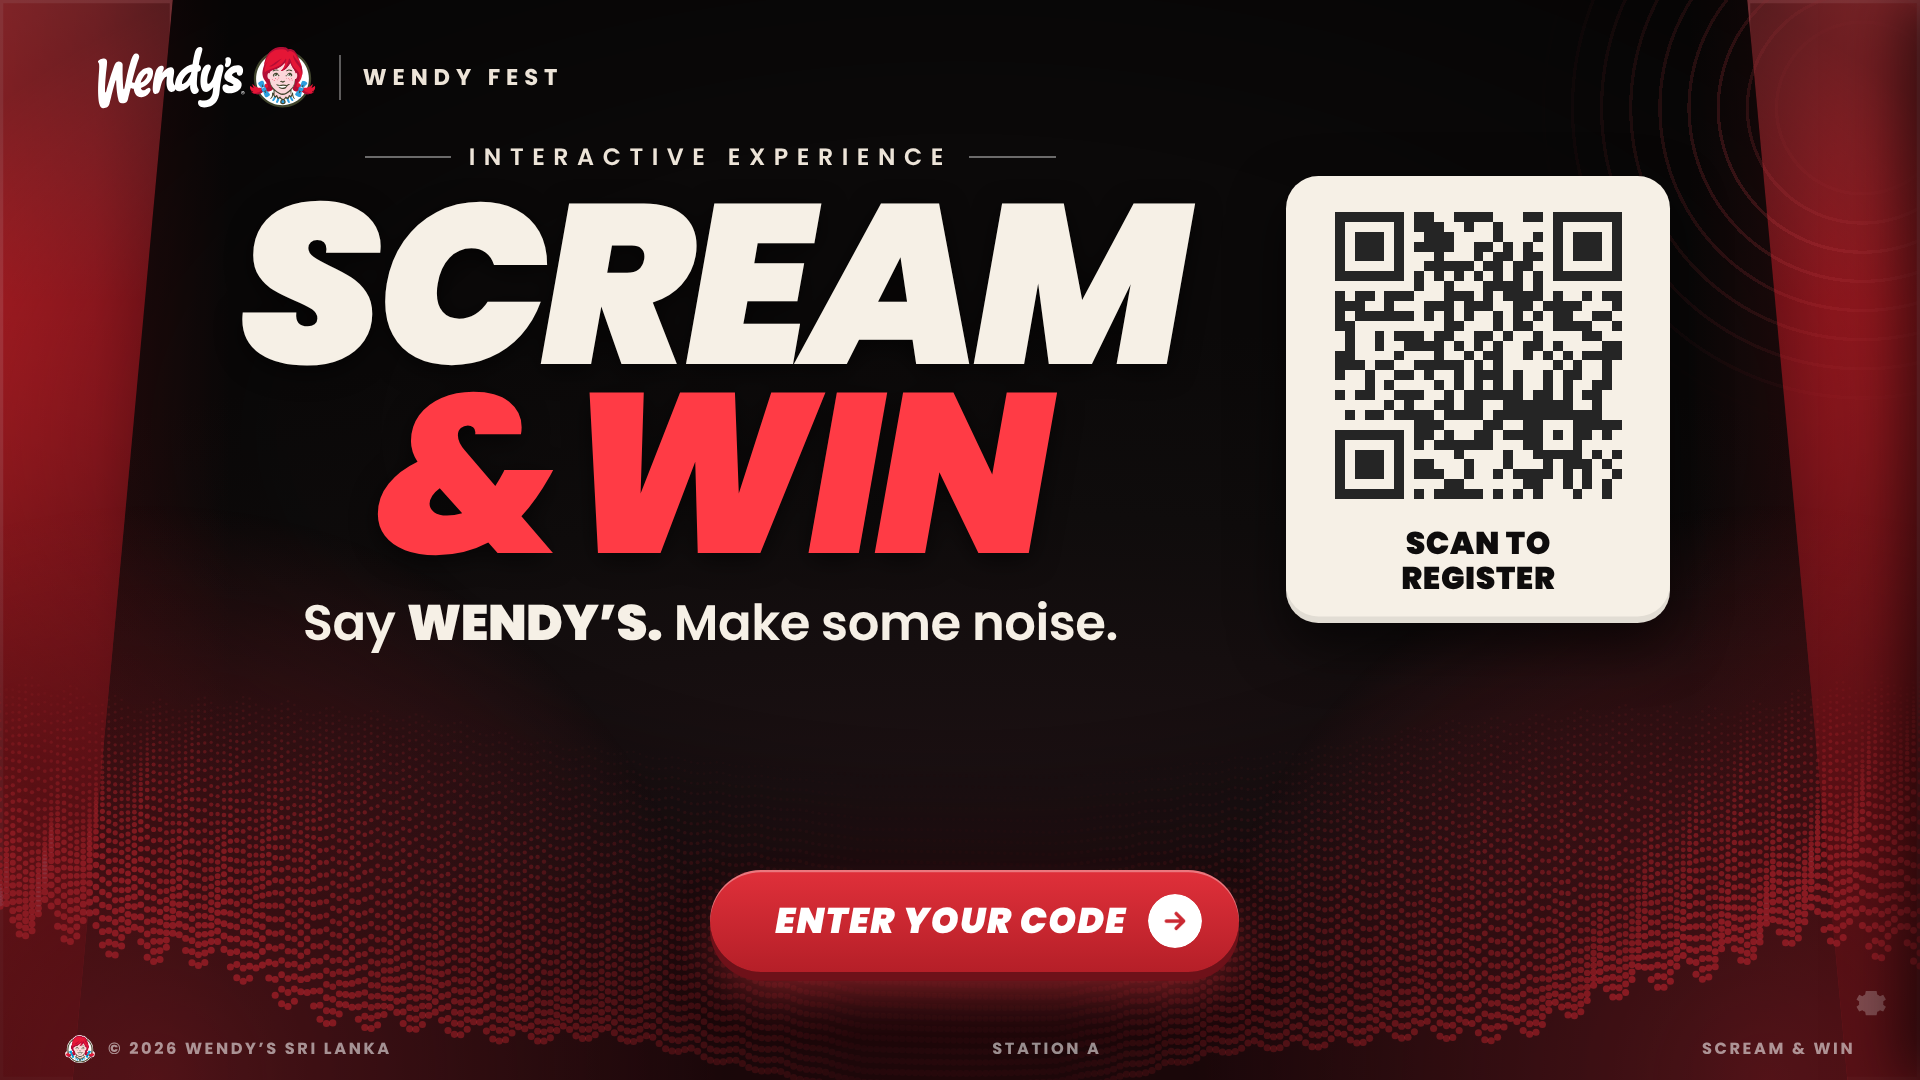
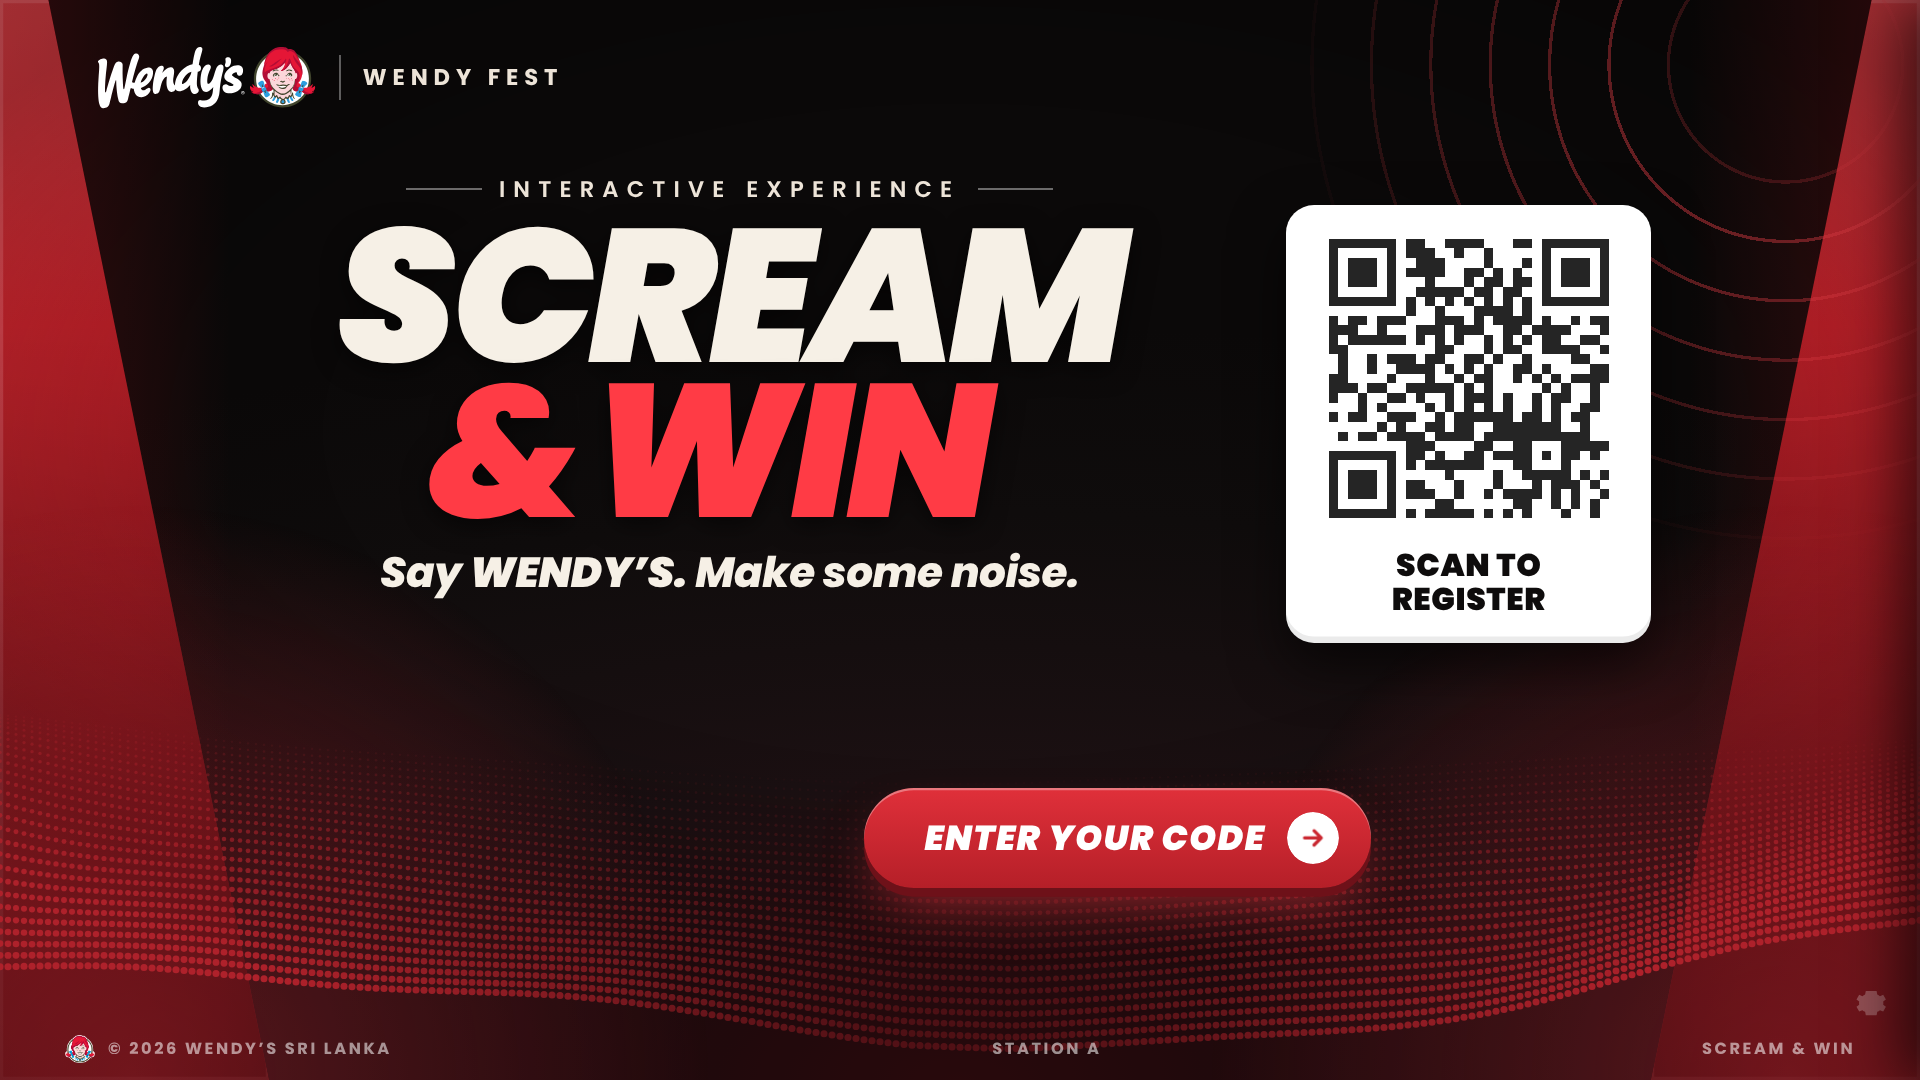
Scream & Win idle: positions matched to reference, wave terrain restored, ring arcs behind QR
Claude-Session: https://claude.ai/code/session_015MHPvZ3kkn8jw5YatKY7r4

diff --git a/public/kiosk/scream.html b/public/kiosk/scream.html
@@ -12,20 +12,20 @@ body { margin:0; background:var(--ink); color:#fff; font-family:Poppins,'Noto Sa
 .stage { position:relative; width:100vw; height:100vh; overflow:hidden;
   background: radial-gradient(90% 70% at 50% 100%, #3A0D12 0%, #1B1012 40%, #0F0C0C 75%, #0B0909 100%); }
 /* angled red side panels (3D) */
-.panel { position:absolute; top:0; bottom:0; width:9vw; pointer-events:none; z-index:1; }
-.panel.l { left:0; background:linear-gradient(90deg, #E2262F 0%, #B71E27 55%, #7A1219 100%); clip-path:polygon(0 0, 100% 0, 42% 100%, 0 100%); }
-.panel.l::after { content:""; position:absolute; inset:0; background:linear-gradient(180deg, rgba(255,150,150,.25), transparent 28%, rgba(0,0,0,.55)); clip-path:inherit; }
-.panel.r { right:0; background:linear-gradient(270deg, #E2262F 0%, #B71E27 55%, #7A1219 100%); clip-path:polygon(0 0, 100% 0, 100% 100%, 58% 100%); }
-.panel.r::after { content:""; position:absolute; inset:0; background:linear-gradient(180deg, rgba(255,150,150,.25), transparent 28%, rgba(0,0,0,.55)); clip-path:inherit; }
+.panel { position:absolute; top:0; bottom:0; width:14vw; pointer-events:none; z-index:1; }
+.panel.l { left:0; background:linear-gradient(100deg, #E22A33 0%, #BD1F28 50%, #8A151C 100%); clip-path:polygon(0 0, 18% 0, 100% 100%, 0 100%); }
+.panel.l::after { content:""; position:absolute; inset:0; background:linear-gradient(180deg, rgba(255,150,150,.22), transparent 30%, rgba(0,0,0,.5)); clip-path:inherit; }
+.panel.r { right:0; background:linear-gradient(260deg, #E22A33 0%, #BD1F28 50%, #8A151C 100%); clip-path:polygon(82% 0, 100% 0, 100% 100%, 0 100%); }
+.panel.r::after { content:""; position:absolute; inset:0; background:linear-gradient(180deg, rgba(255,150,150,.22), transparent 30%, rgba(0,0,0,.5)); clip-path:inherit; }
 .panel-glow { position:absolute; top:0; bottom:0; width:16vw; pointer-events:none; z-index:1; }
 .panel-glow.l { left:0; background:linear-gradient(90deg, rgba(205,32,40,.28), transparent 75%); }
 .panel-glow.r { right:0; background:linear-gradient(270deg, rgba(205,32,40,.28), transparent 75%); }
 .panel::before { content:""; position:absolute; inset:0; clip-path:inherit; box-shadow:inset 0 0 0 .3vmin rgba(255,120,130,.45); }
-.rings { position:absolute; inset:0; pointer-events:none; z-index:1; opacity:.55;
-  background:repeating-radial-gradient(circle at 97% 10%, transparent 0 2.4vmin, rgba(255,80,90,.45) 2.4vmin 2.7vmin);
-  mask:radial-gradient(circle at 97% 10%, transparent 0 6vmin, #000 12vmin, transparent 30vmin); -webkit-mask:radial-gradient(circle at 97% 10%, transparent 0 6vmin, #000 12vmin, transparent 30vmin); }
+.rings { position:absolute; inset:0; pointer-events:none; z-index:1; opacity:.85;
+  background:repeating-radial-gradient(circle at 93% 6%, transparent 0 5.2vmin, rgba(255,70,80,.55) 5.2vmin 5.5vmin);
+  mask:radial-gradient(circle at 93% 6%, transparent 0 8vmin, #000 14vmin, rgba(0,0,0,.6) 30vmin, transparent 46vmin); -webkit-mask:radial-gradient(circle at 93% 6%, transparent 0 8vmin, #000 14vmin, rgba(0,0,0,.6) 30vmin, transparent 46vmin); }
 #field { position:absolute; left:0; top:0; width:100vw; height:100vh; z-index:1; pointer-events:none; }
-.vignette { position:absolute; inset:0; z-index:2; pointer-events:none; background:radial-gradient(60% 55% at 50% 40%, transparent 50%, rgba(0,0,0,.45) 100%); }
+.vignette { position:absolute; inset:0; z-index:2; pointer-events:none; background:radial-gradient(60% 55% at 50% 40%, transparent 55%, rgba(0,0,0,.3) 100%); }
 
 /* chrome */
 .brand { position:absolute; top:4.2vmin; left:5vw; z-index:5; display:flex; align-items:center; gap:2vmin; }
@@ -67,21 +67,21 @@ body { margin:0; background:var(--ink); color:#fff; font-family:Poppins,'Noto Sa
 .vr { width:.2vmin; height:5vmin; background:rgba(255,255,255,.3); }
 
 /* idle */
-.idle.on { display:grid; grid-template-columns:52vw 20vw; column-gap:4vw; align-items:center; justify-content:start; text-align:left; justify-items:start; padding:0 0 26vh 11vw; }
-.idle .left { display:grid; gap:1.6vmin; justify-items:start; width:100%; }
-.idle .eyebrow { justify-content:center; width:100%; font-size:2.2vmin; letter-spacing:.36em; }
-.idle .eyebrow::before, .idle .eyebrow::after { width:8vmin; }
-.idle .h1 { font-size:21vmin; line-height:.83; letter-spacing:-.03em; width:100%; text-align:center; }
+.idle.on { display:block; padding:0; }
+.idle .left { position:absolute; left:13vw; width:50vw; top:16vh; display:grid; gap:0; justify-items:center; text-align:center; }
+.idle .eyebrow { font-size:2.1vmin; letter-spacing:.36em; margin-bottom:1.2vh; }
+.idle .eyebrow::before, .idle .eyebrow::after { width:7vmin; }
+.idle .h1 { font-size:17.5vmin; line-height:.82; letter-spacing:-.03em; }
 .idle .h1 .l1 { display:block; }
-.idle .h1 .l2 { display:block; }
-.idle .h1 .amp { color:var(--red-hi); margin-right:.6vmin; }
-.idle .sub { font-size:4.6vmin; letter-spacing:-.01em; width:100%; text-align:center; margin-top:.2vmin; }
-.idle .cta-wrap { position:absolute; left:37vw; bottom:10vh; transform:translateX(-50%); z-index:6; }
-.idle .btn { height:9.4vmin; font-size:3.3vmin; padding:0 3.4vmin 0 6vmin; }
-.idle .btn::after { width:5vmin; height:5vmin; }
-.idle .qrcard { width:20vw; padding:2.4vmin 2vmin 2.6vmin; border-radius:3vmin; justify-self:start; }
-.idle .qrcard img { width:16vw; height:16vw; }
-.idle .qrcard b { font-size:2.9vmin; letter-spacing:.02em; line-height:1.1; margin-top:.4vmin; }
+.idle .h1 .l2 { display:block; margin-left:-4vmin; }
+.idle .h1 .amp { color:var(--red-hi); margin-right:.8vmin; }
+.idle .sub { font-size:3.9vmin; letter-spacing:-.01em; margin-top:1.2vh; font-style:italic; }
+.idle .cta-wrap { position:absolute; left:45vw; top:73vh; transform:translateX(-50%); z-index:6; }
+.idle .btn { height:9.2vmin; font-size:3.2vmin; padding:0 3vmin 0 5.6vmin; }
+.idle .btn::after { width:4.8vmin; height:4.8vmin; }
+.idle .qrcard { position:absolute; left:67vw; top:19vh; width:19vw; padding:2.2vmin 1.8vmin 2.4vmin; border-radius:2.6vmin; background:#fff; }
+.idle .qrcard img { width:15.6vw; height:15.6vw; }
+.idle .qrcard b { font-size:2.9vmin; letter-spacing:.02em; line-height:1.1; margin-top:.6vmin; }
 
 /* code */
 .boxes { display:flex; gap:1.6vmin; justify-content:center; }
@@ -273,8 +273,8 @@ canvas.wave { width:70vw; height:12vmin; display:block; }
   function drawField(t) {
     if (!field._sized) fd = sizeCanvas(field);
     const W = field.width, H = field.height; fx.clearRect(0, 0, W, H);
-    const energy = windowOpen ? Math.min(1, Math.max(0, (smooth - CFG.scream.dbFloor) / (CFG.scream.dbCeil - CFG.scream.dbFloor))) : 0.14;
-    const cols = 300, rows = 30, top = H * .72, bottom = H * 1.02;
+    const energy = windowOpen ? Math.min(1, Math.max(0, (smooth - CFG.scream.dbFloor) / (CFG.scream.dbCeil - CFG.scream.dbFloor))) : 0.12;
+    const cols = 240, rows = 26, top = H * .74, bottom = H * 1.0;
     fx.globalCompositeOperation = "lighter";
     for (let j = 0; j < rows; j++) {
       const depth = j / rows;
@@ -282,21 +282,21 @@ canvas.wave { width:70vw; height:12vmin; display:block; }
       for (let i = 0; i <= cols; i++) {
         const u = i / cols; const x = u * W;
         const side = Math.abs(u - .5) * 2;
-        const mtn = Math.pow(Math.max(0, side - .1) / .9, 1.0);
-        const w1 = Math.sin(u * 22 + t * .0014 + depth * 3) * (14 + 60 * energy);
-        const w2 = Math.sin(u * 61 - t * .0024 + depth * 7) * (6 + 30 * energy);
-        const spike = Math.pow(Math.abs(Math.sin(u * 140 + depth * 2 + t * .001)), 3) * 40 * mtn;
-        const lift = mtn * 230 * (1 - depth * .4);
-        const y = baseY - (w1 * (0.2 + mtn) + w2 * mtn + spike + lift) * fd * (0.4 + depth * .6);
-        const a = (0.08 + 1.0 * depth) * (0.08 + mtn * 1.5) * (0.75 + energy);
-        const r = (1.2 + 2.4 * depth) * fd;
-        fx.fillStyle = `rgba(255,${40 + 70 * energy | 0},60,${Math.min(1, a).toFixed(3)})`;
+        const mtn = 0.18 + 0.82 * Math.pow(Math.max(0, side - .05) / .95, 1.2);
+        const w1 = Math.sin(u * 9 + t * .0011 + depth * 2.2) * (10 + 60 * energy);
+        const w2 = Math.sin(u * 23 - t * .0019 + depth * 5) * (4 + 26 * energy);
+        const ridge = Math.pow(Math.max(0, Math.sin(u * 3.1 + depth * 1.6 + t * .0004)), 2) * 50 * (1 - depth);
+        const lift = mtn * 190 * (1 - depth * .5);
+        const y = baseY - (w1 * (.25 + mtn) + w2 * mtn + ridge * mtn + lift) * fd * (0.35 + depth);
+        const a = (0.08 + 0.95 * depth) * (0.1 + mtn * 1.6) * (0.7 + energy);
+        const r = (1.1 + 2.5 * depth) * fd;
+        fx.fillStyle = `rgba(255,${40 + 60 * energy | 0},60,${Math.min(1, a).toFixed(3)})`;
         fx.beginPath(); fx.arc(x, y, r, 0, 7); fx.fill();
       }
     }
     fx.globalCompositeOperation = "source-over";
-    const g1 = fx.createRadialGradient(W * .08, H, 0, W * .08, H, W * .3); g1.addColorStop(0, "rgba(240,50,65,.55)"); g1.addColorStop(1, "rgba(240,50,65,0)");
-    const g2 = fx.createRadialGradient(W * .92, H, 0, W * .92, H, W * .3); g2.addColorStop(0, "rgba(240,50,65,.55)"); g2.addColorStop(1, "rgba(240,50,65,0)");
+    const g1 = fx.createRadialGradient(W * .07, H, 0, W * .07, H, W * .3); g1.addColorStop(0, "rgba(240,50,65,.5)"); g1.addColorStop(1, "rgba(240,50,65,0)");
+    const g2 = fx.createRadialGradient(W * .93, H, 0, W * .93, H, W * .3); g2.addColorStop(0, "rgba(240,50,65,.5)"); g2.addColorStop(1, "rgba(240,50,65,0)");
     fx.fillStyle = g1; fx.fillRect(0, 0, W, H); fx.fillStyle = g2; fx.fillRect(0, 0, W, H);
   }
 
